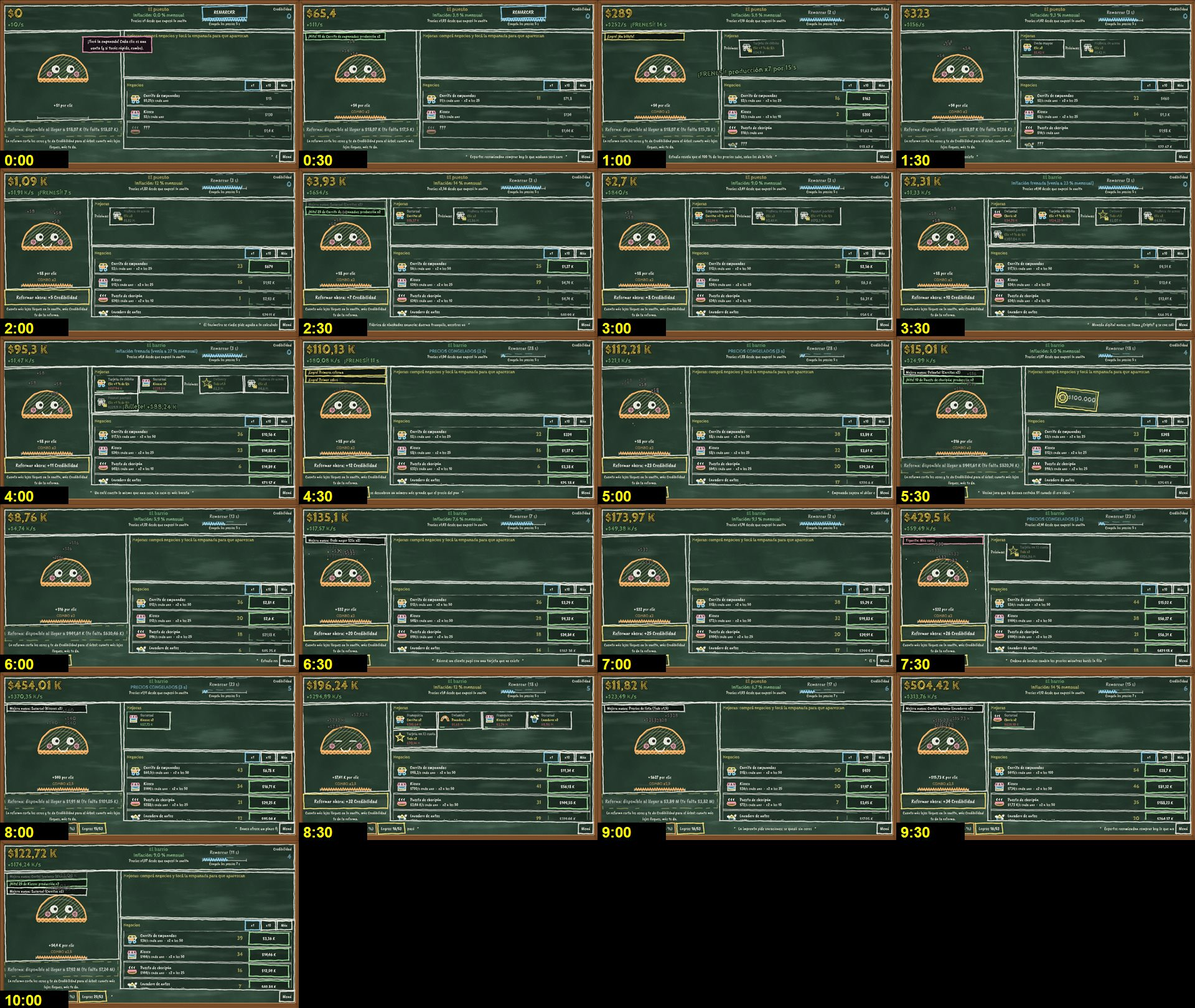
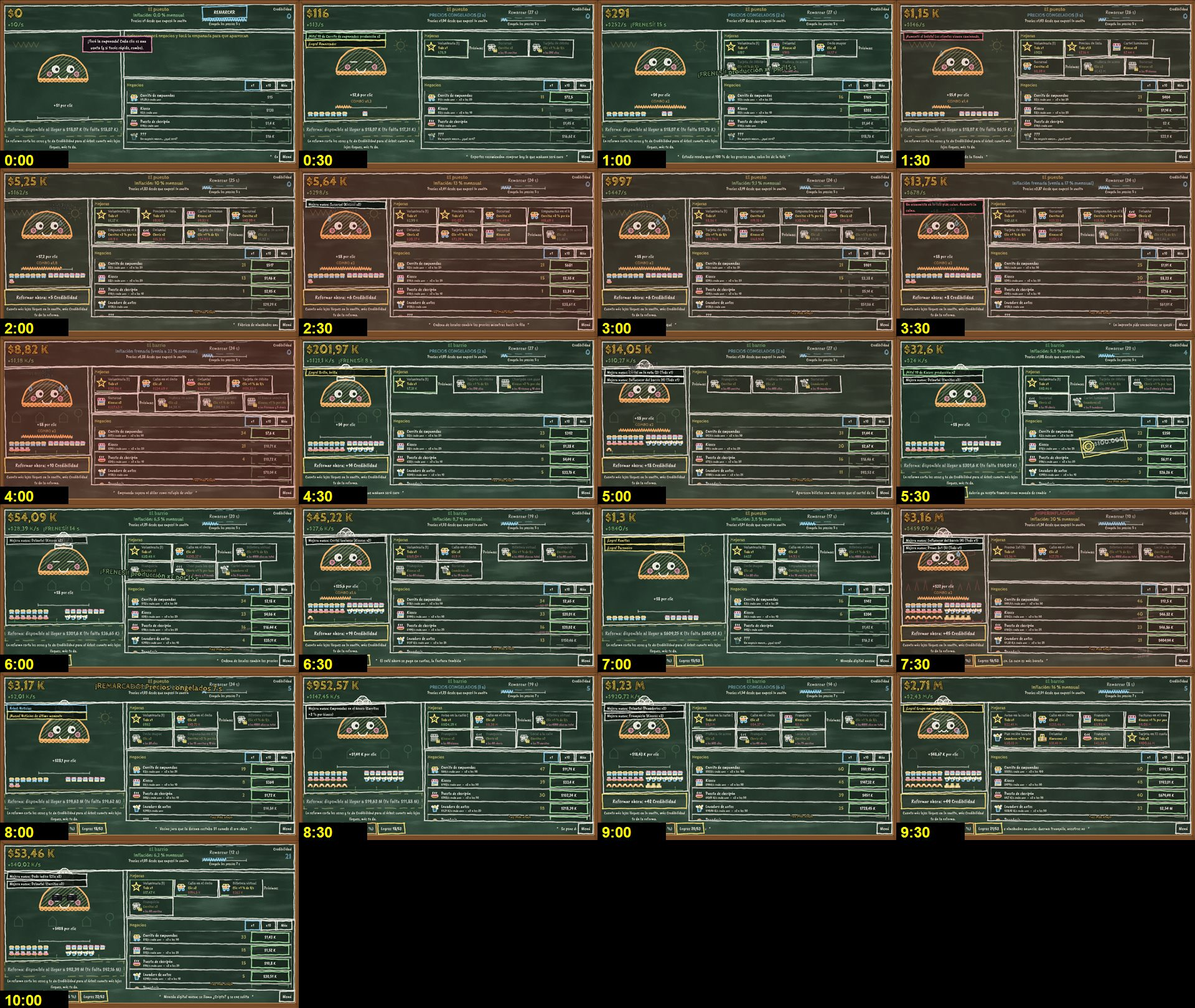
Hojas de contacto nuevas (pasivo 0-10, activo 0-10 y 10-60 min), diseño actualizado y encabezado sin superposición (punto 8)
El QA del exe encontró el nombre de la capa y la línea de inflación encimados 3-5 px (contenedor sin separación y
el temblor nuevo del porcentaje): separación de 3 px y temblor solo de rotación. Re-export de windows y web_demo con
QA en verde.

Changed region(s): [[0.0, 0.0, 1.0, 1.0], [0.0625, 0.0309, 0.125, 0.0617]]

diff --git a/docs/DISENO_V2.md b/docs/DISENO_V2.md
@@ -12,11 +12,13 @@
 | Hito | Objetivo | Quién |
 | --- | --- | --- |
 | Primer renacimiento (reforma) | minuto 4–6, entre 5 y 10 de Credibilidad | jugador activo |
-| Final: nodo "Estabilizar la economía" | minuto 50–70 | jugador activo |
+| Final: nodo "Estabilizar la economía" | minuto 45–60 | jugador activo |
+| Final para quien juega tranquilo | minuto 60–75 | pasivo y distraído |
 | 100 % (árbol + álbum + logros) | 3 h – 4 h, nunca más | jugador activo |
 | Aceleración | la vuelta 10 llega a la plata máxima de la vuelta 1 en ≤ 1/5 del tiempo | jugador activo |
 | Cada vuelta mejor | la vuelta 2 llega a la plata de la vuelta 1 en menos de la mitad del tiempo | los tres |
 | Nunca trabado | nunca más de 20 s sin poder comprar nada ni reformar | los tres |
+| Mejoras que no se acaban | en la primera hora, nunca más de 20 s sin una mejora a tiro (que se pueda pagar ya o juntando 20 s de ingreso) | los tres |
 | Reformas que valen la pena | ninguna reforma da menos de 5 de Credibilidad | los tres |
 | Los clics importan | en el primer minuto de la vuelta 1, los clics son la fuente principal de plata | activo y distraído |
 
@@ -48,6 +50,17 @@ Costo del n-ésimo = base × 1,15ⁿ × P (P = nivel de precios de la vuelta, ve
 | 9 | Imprenta de billetes | 8 B | 7,5 M | capstone NEGOCIOS |
 | 10 | Holding de ceros | 140 B | 80 M | capstone NEGOCIOS |
 
+**Lista de negocios**: filas compactas con scroll y una flecha "hay más abajo"; se ven todos los desbloqueados hasta
+donde llega la capa (3 negocios en El puesto, 5 en El barrio, 7 en La ciudad, todos en Las finanzas) y el siguiente
+como **"???"** con su precio (o "Se desbloquea en el árbol").
+
+**La calle del barrio**: debajo de la empanada, cada negocio comprado agrega su dibujito de tiza (una fila por tipo,
+tope 7 / 6 / 4 según la calidad de tiza; la parrilla tira humo). Detrás de la empanada, el fondo cambia con la capa
+(toldo y sol, casitas, edificios, rascacielos y $, llamas). La empanada evoluciona con el árbol: gorrito de cocinera
+(3 nodos), anteojos de sol (20), corona (los 6 sellos) y brillo dorado con el final.
+
+**El barrio trabaja solo**: si no tocás la empanada por 15 s, la producción va x2,5 (para quien juega tranquilo).
+
 Los ingresos son la mitad que en la primera versión del clicker: la vuelta 1 va más tranquila y en el primer minuto
 la plata sale sobre todo de los clics (≈ 67 % con un jugador activo).
 
@@ -64,8 +77,16 @@ hace, cuánto cuesta y cuánto te falta). Se compran con un clic. Se pierden al 
   base** (la primera ronda: Delantal del carrito $90, Dedo índice $50, Cartel del carrito $600, Delantal del kiosco $780).
 - **De clic** (6): con 15 / 80 / 250 / 600 / 1.200 / 2.500 clics en la vuelta → clic ×2, ×2, +1 % de $/s por clic,
   ×3, +1 % de $/s, ×3. Cuestan 50 / 1.000 / 30.000 / 1 M / 50 M / 5 B.
-- **Sinergias** (5) y **globales** (4) como antes (sinergia: +2 % por cada unidad del otro negocio; globales ×1,5 /
-  ×1,5 / ×2 / ×2 con 20 / 60 / 120 / 200 negocios).
+- **Niveles altos por negocio** (80): x2 a las 75, 100, 150, 200, 250, 300, 400 y 500 unidades; cada uno cuesta lo
+  que ~50 unidades de ese nivel, así siempre está cerca de lo que tenés.
+- **De clic por el total de clics** (7): con 1.500 / 4.000 / 8.000 / 15.000 / 25.000 / 40.000 / 60.000 clics en la
+  partida; su precio son 45–120 s de ingreso.
+- **Sinergias** (15): las 5 de +2 % y 10 de +1 % ("El kiosco vende choripán: +1 % por cada puesto").
+- **Globales** (4) como antes y **campañas de publicidad** (80, sin fin a la práctica): todo x1,03 cada una; la primera
+  cuesta 4 s de ingreso y cada una 8 % más. Siempre hay una tarjeta barata.
+- **Próximas**: hasta 4 tarjetas con candado; las desbloqueadas pero caras (más de 10 min de ingreso) y las que se
+  desbloquean pronto, con su condición ("a los 150 carritos", "a los 4.000 clics").
+Total: 232 mejoras.
 
 ### 2.4 La inflación: atada al progreso, con freno y tope
 - **No depende del reloj**: la tasa sube con el **progreso de la vuelta** φ = ceros ganados en la vuelta / (ceros de tu
@@ -120,8 +141,8 @@ hace, cuánto cuesta y cuánto te falta). Se compran con un clic. Se pierden al 
   Alrededor nacen 6 ramas, una cada 60°. Anillo r a 150 px × r del centro.
 - Un nodo se ve cuando su padre está comprado; los vecinos del borde se ven como niebla con "?"; el resto no se dibuja.
 - Se compran con Credibilidad, en cualquier momento (también a mitad de vuelta).
-- **Costos por anillo**: **2, 6**, 35, 120, 400, 1.500, 5.000, 11.000 (×1,15 si es lateral; puentes 3.500). Final:
-  **5.000** y requiere los 6 **sellos** (el nodo del anillo 4 de cada rama). En la primera hora cada reforma alcanza
+- **Costos por anillo**: **2, 6**, 25, 110, 260, 1.100, 4.000, 9.000 (×1,15 si es lateral; puentes 3.500). Final:
+  **3.300** y requiere los 6 **sellos** (el nodo del anillo 4 de cada rama). En la primera hora cada reforma alcanza
   para 2–6 nodos; los anillos 6 a 8 son el "después del final" (del minuto ~60 al 100 %).
 - **Los primeros nodos se notan enseguida** (cuestan 2): Empanada de horno **clic x2**, Socio del barrio **empezás con
   5 carritos y producís x2**, Precios cuidados **inflación −20 %**, Memoria colectiva **+25 % de Credibilidad**,
@@ -165,6 +186,9 @@ hace, cuánto cuesta y cuánto te falta). Se compran con un clic. Se pierden al 
   primeras 3 vueltas** salen de a uno (2,2 s entre avisos) y duran 5,5 s, y las mejoras aparecen de a una cada 20 s:
   da tiempo a leer y a cliquear.
 - Plata grande y brillante con ticker "+$/s" bien visible; números que "saltan" al cambiar.
+- **La inflación se siente** (sin cambiar el balance): cuando un precio sube, el viejo se tacha con tiza y cae; el
+  porcentaje tiembla al subir; cerca de la pared la pantalla se tiñe de rojo y la empanada transpira; y 14 avisos
+  graciosos cuando los precios pegan un salto ("¡Aumentó el colectivo!"), como mucho cada 25 s.
 - Cada compra: "pop" visual (escala) y sonoro. Nodos del árbol: chispazo de tiza al comprar.
 
 ## 8. Logros
@@ -179,8 +203,8 @@ hace, cuánto cuesta y cuánto te falta). Se compran con un clic. Se pierden al 
     y compra lo de mejor repago (entre lo que puede pagar en 45 s) una vez por segundo;
   - **pasivo**: 1 clic/s, toca el 30 % de los billetes (tarde), casi no remarca y compra siempre lo más barato;
   - **distraído**: 4 clics/s y en las vueltas largas deja de jugar 2 minutos a mitad de la vuelta.
-  Los tres reforman cuando el juego lo aconseja (sección 3) y compran el nodo que el juego recomienda (sellos y final
-  primero; después el más barato, con preferencia NEGOCIOS = EMPANADA > INFLACIÓN > RENACER > FIGURITAS > SUERTE).
+  Los tres reforman cuando el juego lo aconseja (sección 3), juntan para el final apenas tienen los 6 sellos y compran
+  el nodo que el juego recomienda (sellos y final primero; después el más barato, con preferencia NEGOCIOS = EMPANADA > INFLACIÓN > RENACER > FIGURITAS > SUERTE).
 - Reporte `docs/balance_v2.md`: chequeos por jugador y semilla, y la tabla de reformas de cada jugador.
 - `tools/simulate.gd -- --seeds=1,2,3,4 --qa` termina con código 1 si falla algún chequeo de la sección 1.
 - Hojas de contacto del juego real (`tools/qa_newplayer.ps1`): 0–10 min con el jugador pasivo

diff --git a/README.md b/README.md
@@ -62,7 +62,7 @@ cuando el juego lo aconseja (el botón de reforma late). El simulador escribe `d
 Chequeos para los tres (falla si no se cumplen): nunca más de 20 s sin poder comprar ni reformar, la vuelta 2 llega a
 la plata de la vuelta 1 en menos de la mitad del tiempo, ninguna reforma da menos de 5 de Credibilidad (la primera,
 entre 5 y 10) y, salvo el pasivo, los clics son la fuente principal de plata en el primer minuto. Duración (activo):
-primera reforma entre los minutos 4 y 6, final entre 50 y 70, 100 % entre 3 y 4 horas, y la vuelta 10 llega a la plata
+primera reforma entre los minutos 4 y 6, final entre 45 y 60 (pasivo y distraído: entre 60 y 75), 100 % entre 3 y 4 horas, nunca más de 20 s sin una mejora a tiro en la primera hora, y la vuelta 10 llega a la plata
 de la vuelta 1 en un quinto del tiempo.
 
 `tools/qa_newplayer.ps1` arma `docs/qa/v2_0_a_10_min_<perfil>.jpg` (una captura cada 30 s) y
